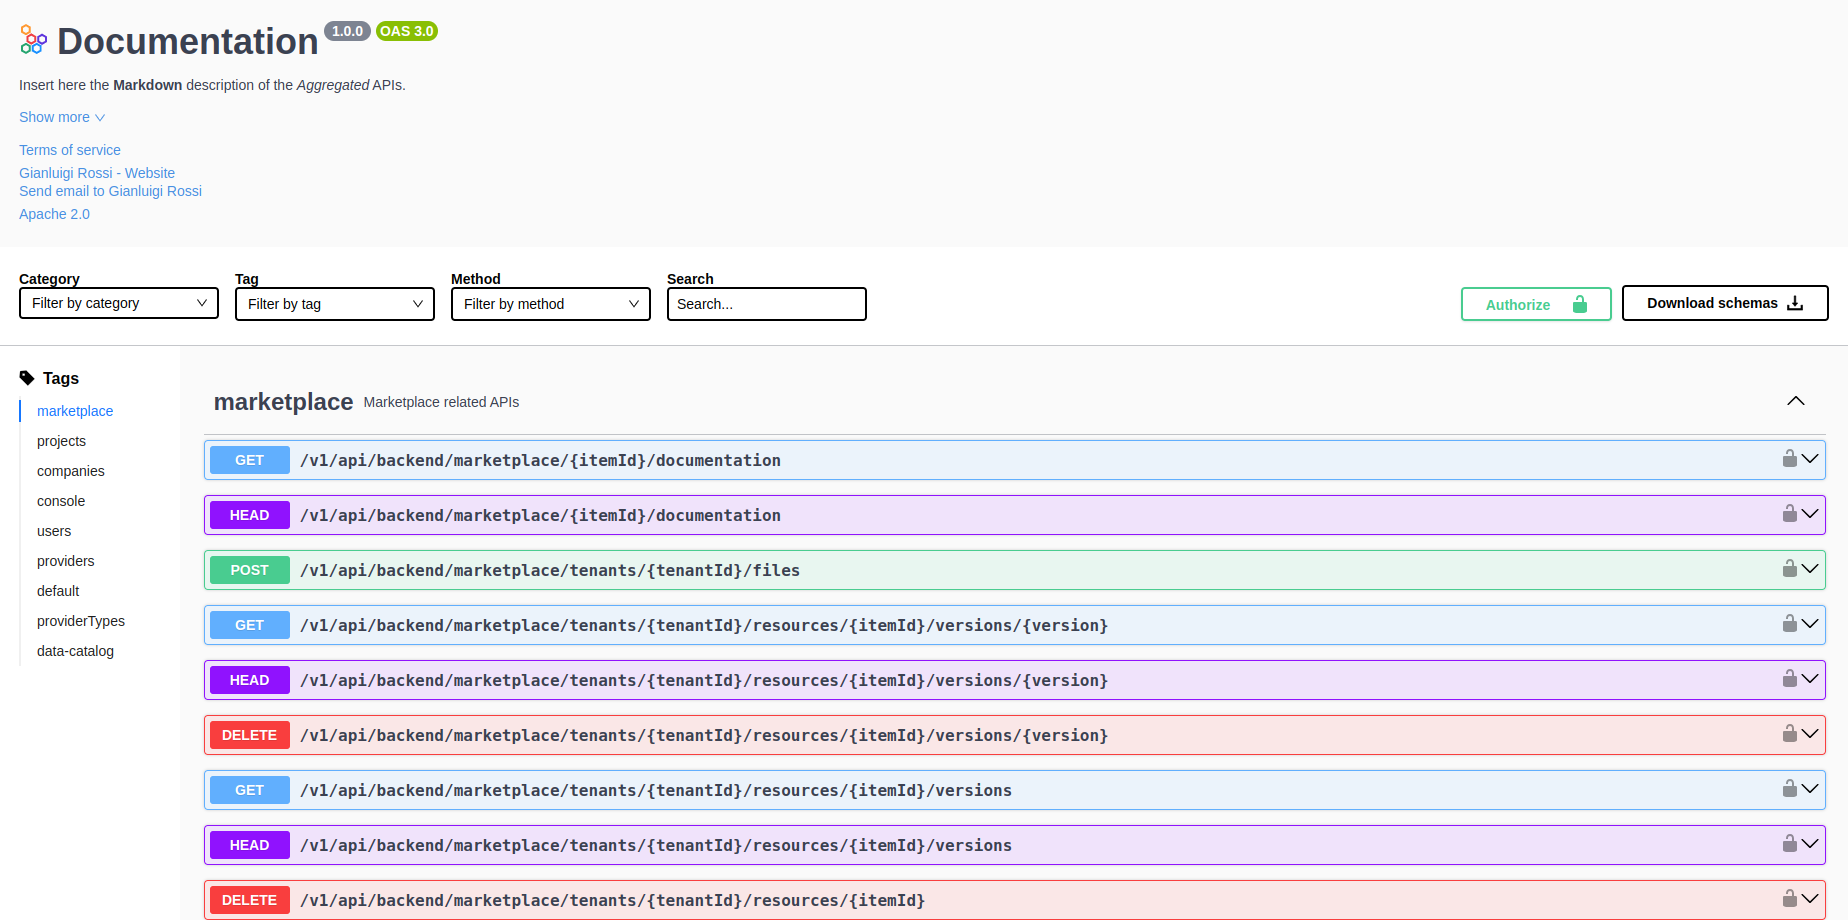
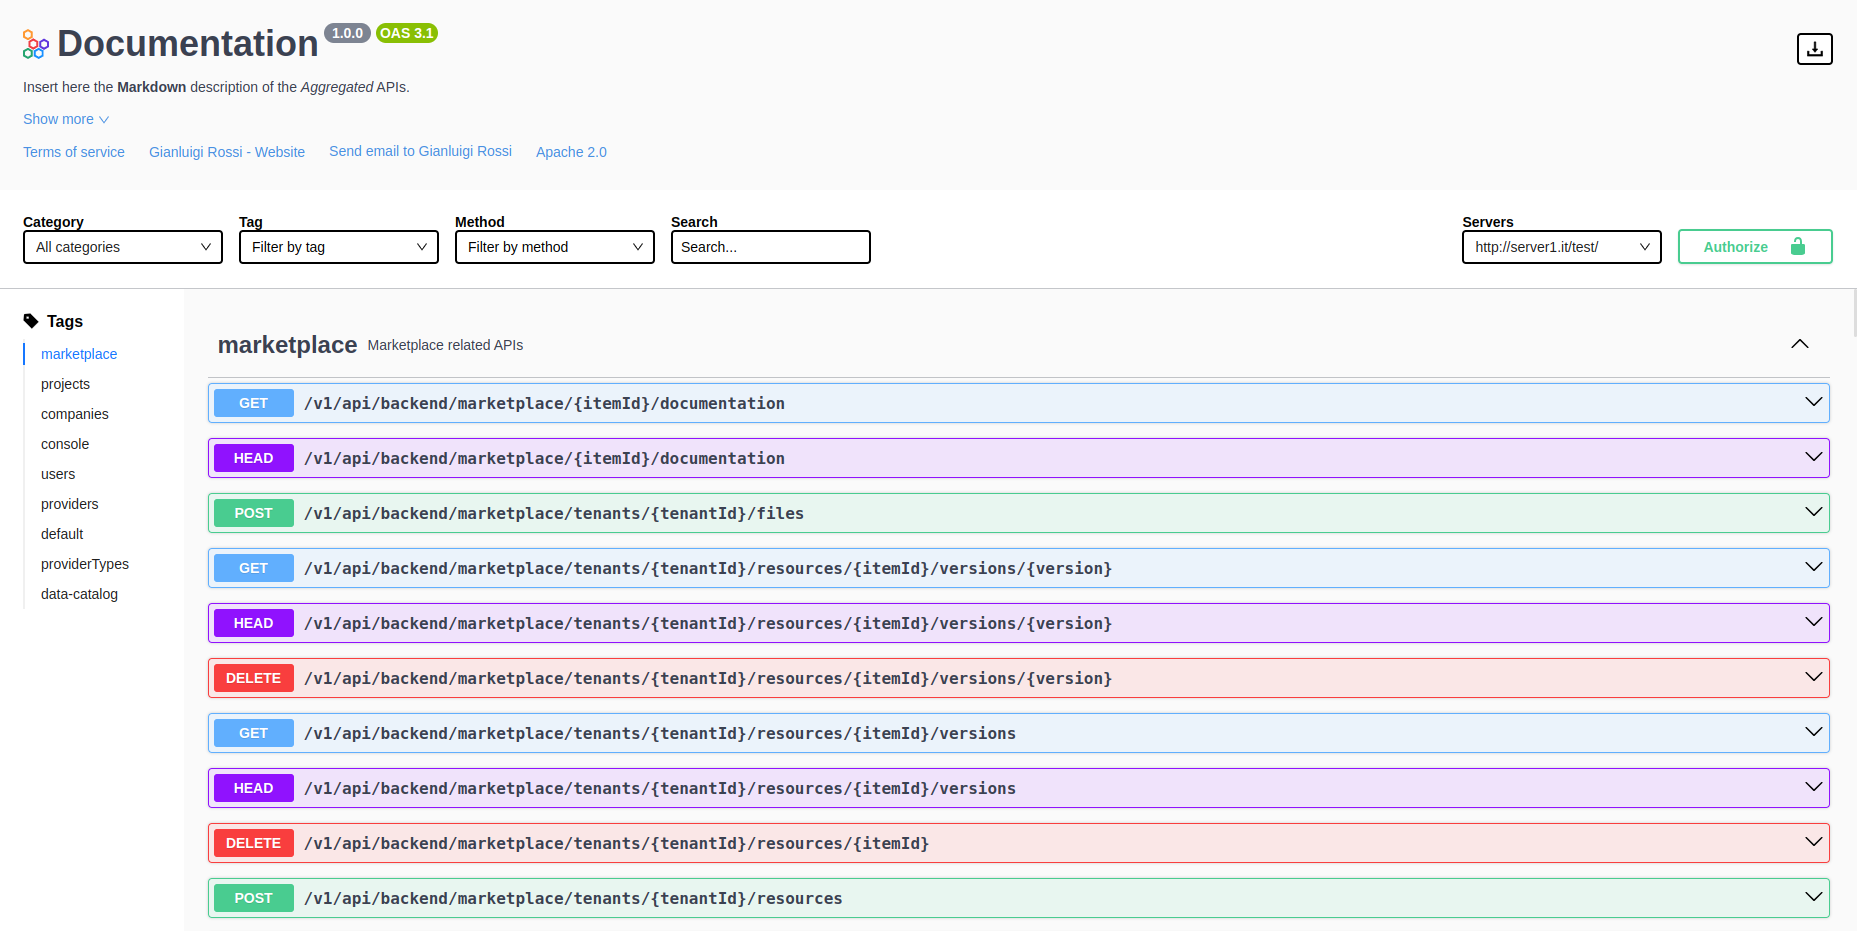
chore(docs): update API Portal documentation (#1989)
* chore(docs): update API Portal documentation

* chore(docs): update API Portal documentation

* chore(docs): update API Portal documentation

* chore(docs): update API Portal documentation

Changed region(s): [[0.0, 0.0, 0.987, 1.0], [0.7711, 0.213, 1.0, 0.3652], [0.9562, 0.0304, 0.987, 0.0609]]

diff --git a/docs/runtime_suite/api-portal/20_configuration.md b/docs/runtime_suite/api-portal/20_configuration.md
@@ -18,7 +18,7 @@ You can select the [API Documentation](/runtime_suite_applications/api-documenta
 
 ## Routes
 
-The **API Portal** requires to expose two routes: `/api/openapi/` and `/api/openapi/raw/`.
+The **API Portal** requires to expose two routes: `/api/openapi/`, `/api/openapi/raw/`
 
 The main endpoints are:
 
@@ -44,6 +44,14 @@ For example, if the selected category has `categoryUrl = ../category1.json`, the
 
 Every time `/api/openapi/json` is called, the API Portal also calls GET `/api/openapi/raw/ui-config` to retrieve an optional UI configuration object (the call **is allowed to fail**). At the moment, the object should have only one optional property `oauthConfig` which should be and object containing a [swagger-ui OAuth 2.0 configuration](https://github.com/swagger-api/swagger-ui/blob/master/docs/usage/oauth2.md).
 
+In addiction to these required endpoints, there is the `/documentations/api-portal/config` endpoint that expects a json with an `apiPrefix`, such as:
+
+```json
+{ "apiPrefix": "/custom-prefix" }
+```
+
+This prefix replaces the `/api` of every route. So, following the example, every `/api/openapi/...` will become `/custom-prefix/openapi/...`.
+
 ## Environment variables
 
 The API Portal accepts the following environment variables:
@@ -52,15 +60,25 @@ The API Portal accepts the following environment variables:
 
 ## How to migrate to v2
 
-To migrate from the `v1.16.14`, you have to:
+To migrate from the `v1.16.14`, you can update the service and the `Swagger Aggregator` or remove it and use only the `Swagger Aggregator`.
 
-1. Make sure to update the `Swagger Aggregator` microservice to the latest version (`3.6.0` or above).
+Whichever option you choose, the first two things to do are:
+1. Make sure to update the `Swagger Aggregator` microservice to a compatible version (`3.6.0` or above).
 2. Remove the following endpoints:
     - `/documentations/api-portal/api/openapi/v3`
     - `/documentations/api-portal/api`
     - `/documentations/openapi`
     - `/documentations/swagger`
-3. Add the following endpoints:
+
+Now you can follow one of the two tutorials below to configure the new `API Portal`.
+
+## How to configure
+
+### Stand-alone API Portal
+
+To configure the stand-alone `API Portal`, make sure to have the latest `Swagger Aggregator` and the latest `API Portal`. Now you have to configure the needed endpoints:
+
+1. Add the following endpoints:
     - Endpoint 1:
       * Base path: `/api/openapi`
       * Type: `Microservice`
@@ -74,5 +92,75 @@ To migrate from the `v1.16.14`, you have to:
       * Type: `Microservice`
       * Microservice: `swagger-aggregator`
       * Rewrite base path: `/`
+2. Add the `/documentations/api-portal` endpoint with the following configuration:
+    - Type: `Microservice`
+    - Microservice: `api-portal`
+    - Rewrite base path: `/`
+    
+    This is the endpoint from which the API Portal is reachable, you can change it and name it as you like.
 
-Now you should have only three endpoints related to the API Portal: `/documentations/api-portal` (or whathever url you decided to expose it), `/api/openapi` and `/api/openapi/raw`
+### Embedded API Portal
+
+It's possible to use the `Swagger Aggregator` microservice to serve the API Portal without the need of the `API Portal`.
+
+:::info
+This option is available only with `Swagger Aggregator` v3.7.0 or above.
+:::
+
+Once you have the `Swagger Aggregator`, you can configure the needed endpoints:
+
+1. Add the following endpoints:
+    - Endpoint 1:
+      * Base path: `/api/openapi`
+      * Type: `Microservice`
+      * Microservice: `swagger-aggregator`
+      * Rewrite base path: it depends on the documentation version you want to see.
+        * `/openapi/v3-1` for Open API v3.1
+        * `/openapi/v3` for Open API v3.0
+        * `/openapi/v2` for Swagger v2
+    - Endpoint 2:
+      * Base path: `/api/openapi/raw`
+      * Type: `Microservice`
+      * Microservice: `swagger-aggregator`
+      * Rewrite base path: `/`
+2. Add `/documentations/api-portal` with the following configuration:
+    - Type: `Microservice`
+    - Microservice: `swagger-aggregator`
+    - Rewrite base path: `/swagger`
+
+    This is the endpoint from which the API Portal is reachable, you can change it and name it as you like.
+
+### Reroute endpoints on a custom endpoint
+
+If you need to change the endpoints, for example because you need to expose many API Portal or you have a gateway that redirects requests based on a certain prefix, you have to configure the `Swagger Aggregator` (read how to [here](/runtime_suite/swagger-aggregator/configuration#customize-api-portal)) and configure the correct endpoints:
+
+1. Add `/documentations/api-portal/config` with the following configuration:
+    - Type: `Microservice`
+    - Microservice: `swagger-aggregator`
+    - Rewrite base path: `/api-portal/config`
+    
+    `/documentations/api-portal` is the url from which the API Portal is reachable, so it depends on the url you use.
+2. Add the following endpoints:
+    - Endpoint 1:
+      * Base path: `/your-custom-prefix/openapi`
+      * Type: `Microservice`
+      * Microservice: `swagger-aggregator`
+      * Rewrite base path: it depends on the documentation version you want to see.
+        * `/openapi/v3-1` for Open API v3.1
+        * `/openapi/v3` for Open API v3.0
+        * `/openapi/v2` for Swagger v2
+    - Endpoint 2:
+      * Base path: `/your-custom-prefix/openapi/raw`
+      * Type: `Microservice`
+      * Microservice: `swagger-aggregator`
+      * Rewrite base path: `/`
+  
+3. Delete `/api/openapi` and `/api/openapi/raw` endpoints if you have already configured them.
+
+## Customize logo and/or favicon
+
+[Here](/runtime_suite_applications/api-documentation-aggregator/faqs#how-can-I-change-the-api-portal-logo-and-favicon) you can read how to customize the logo and/or the favicon of the `API Portal`
+
+## FAQs
+
+You can find some FAQs about Swagger Aggregator and API Portal at [this](../../runtime_suite_applications/api-documentation-aggregator/faqs) link.

diff --git a/docs/runtime_suite/api-portal/changelog.md b/docs/runtime_suite/api-portal/changelog.md
@@ -10,6 +10,18 @@ DO NOT MODIFY IT BY HAND.
 Instead, modify the source file and run the aggregator to regenerate this file.
 -->
 
+## [2.2.0] - 2025-02-14
+
+### Added
+
+- Added global select to choose which server to send requests
+- Added configurable logo in header and favicon
+- Added configurable prefix to endpoints in order to support multiple API Portal
+
+### Fixed
+
+- Fixed loading when search input is emptied
+
 ## [2.1.2] - 2025-02-03
 
 ### Security
